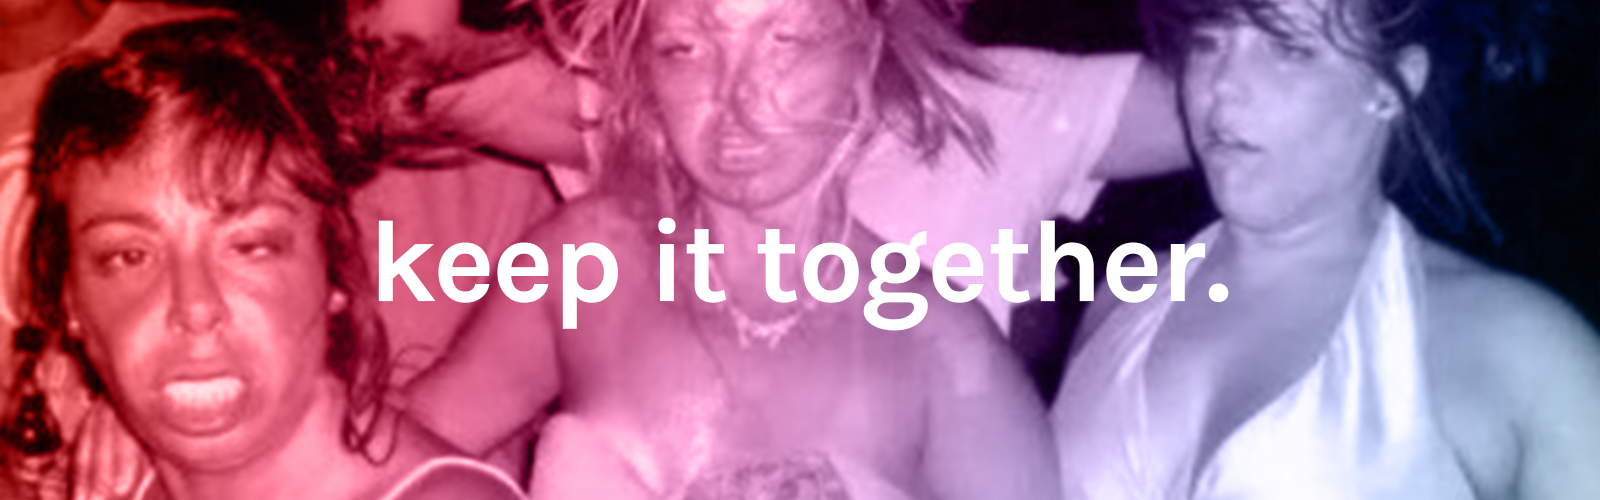
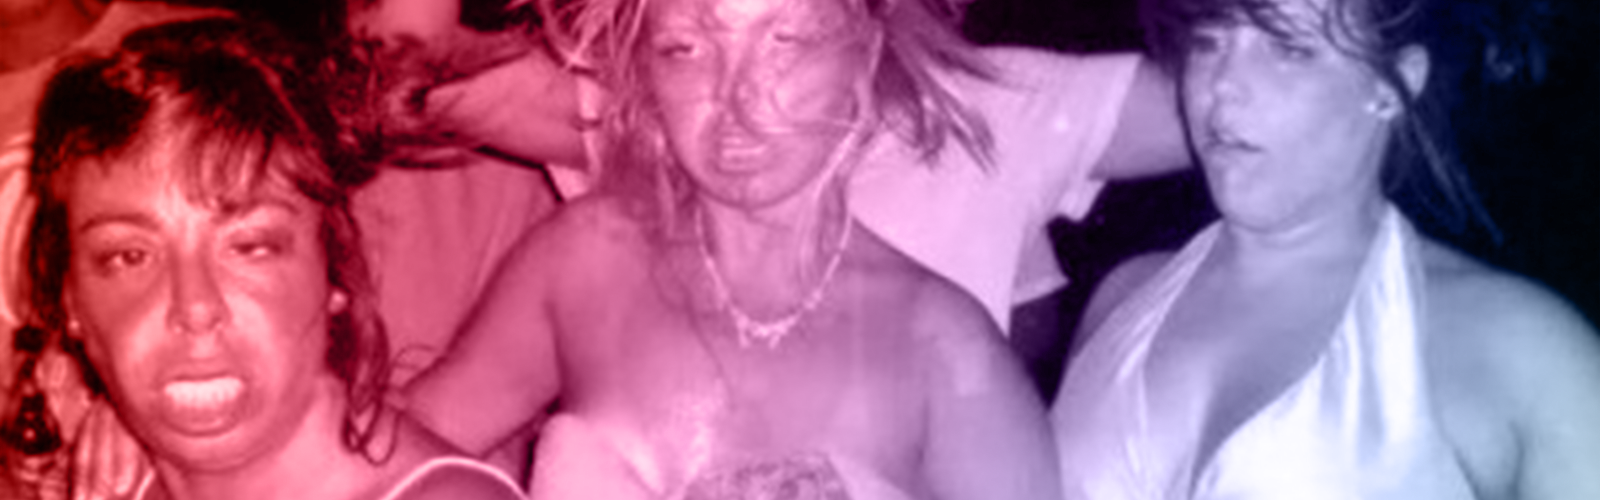
violet

Changed region(s): [[0.2188, 0.42, 0.7812, 0.66]]

diff --git a/client/src/pages/Home/index.js b/client/src/pages/Home/index.js
@@ -1,10 +1,12 @@
 import React from "react";
 import Hero from "../../components/Hero";
 import Row from "react-bootstrap/Row";
-// import Col from 'react-bootstrap/Col';
+import Col from 'react-bootstrap/Col';
 import Homecard from "../../components/HomeCard";
+// import HomeInfoCard from "../../components/HomeInfoCard";
 import Footer from "../../components/Footer";
 import "./style.css";
+import Card from "../../components/Card";
 
 class Home extends React.Component {
   render() {
@@ -12,8 +14,29 @@ class Home extends React.Component {
       <div>
         <Hero backgroundImage="images/heroImage.png" />
         <h1 className="aboutUsHeader">About Us</h1>
-        <p className="aboutUsCopy">Blah Blah Blah!</p>
-        <Row className="rowabout">
+        <p className="aboutUsCopy">Adulting is hard.<br/>There's no real guidebook on how to do it right and worst of all, thanks to social media, we all believe that everyone seems to have it all together except for ourselves.</p>
+        <Row className="rowInfoCards">
+        
+        <Col>
+        <img src="https://emojis.slackmojis.com/emojis/images/1563480763/5999/meow_party.gif?1563480763"></img>
+        <h1>about us</h1>
+        <p>Lorem Ipsum</p>
+          </Col>
+
+          <Col>
+        <img src="https://emojis.slackmojis.com/emojis/images/1563480763/5999/meow_party.gif?1563480763"></img>
+        <h1>about us</h1>
+        <p>Lorem Ipsum</p>
+          </Col>
+
+          <Col>
+        <img src="https://emojis.slackmojis.com/emojis/images/1563480763/5999/meow_party.gif?1563480763"></img>
+        <h1>about us</h1>
+        <p>Lorem Ipsum</p>
+          </Col>
+
+        </Row>
+        <Row className="rowAbout">
           <Homecard categories={this.props.categories} />
 
           {/* <Col>

diff --git a/client/src/components/HomeInfoCard/style.css b/client/src/components/HomeInfoCard/style.css
@@ -1,0 +1,45 @@
+.homeCard{
+    background-color:#ffffff;
+    border: .6em solid #fbd900;
+}
+
+.cardTitle{
+font-family:'Space Mono', monospace;
+text-transform: lowercase;
+letter-spacing: -.04em;
+font-size:1.6em;
+font-weight:700;
+line-height:1.05em;
+}
+
+.homeCardImg{
+    /* text-align: center; */
+}
+
+.homeCardCopy{
+    font-family: 'Karla', sans-serif;
+    font-size: .85em;
+    line-height: 1.2em;
+}
+
+.homeCardBody{
+    background-color:white;
+}
+
+.homeCardRow{
+    padding: 3em;
+}
+
+.homeCardButton {
+    background-color: #ffffff;
+    color: #0e184b;
+    border: 2px solid #2f949a;
+    text-transform: uppercase;
+    font-weight: 700;
+}
+
+.homeCardButton:hover, .homeCardButton:active {
+    background-color: #2f949a;
+    color: white;
+    border: 2px solid #2f949a;
+}

diff --git a/client/src/components/HomeInfoCard/index.js b/client/src/components/HomeInfoCard/index.js
@@ -1,0 +1,27 @@
+
+import React, { Component } from "react";
+import './style.css';
+// import Card from 'react-bootstrap/Card';
+// import Col from 'react-bootstrap/Col';
+// import Row from 'react-bootstrap/Row';
+
+class HomeInfoCard extends Component {
+ 
+
+render(){
+  
+  return (
+<div class="card" style="width: 18rem;">
+    <h5 class="card-title">Card title</h5>
+    <p class="card-text">Some quick example text to build on the card title and make up the bulk of the card's content.</p>
+</div>
+    )
+  }
+
+
+
+}
+
+
+
+export default HomeInfoCard;

diff --git a/client/src/pages/Home/style.css b/client/src/pages/Home/style.css
@@ -1,5 +1,7 @@
-.rowabout{
+.rowAbout{
     margin-left: 50px;
+    background-image: url("/images/crumplyBG.png");
+    margin:0;
 }
 
 .aboutUsHeader{
@@ -12,6 +14,8 @@
     color: #0e184b;
     background-color: #d4d600;
     text-transform: lowercase;
+    margin: 0;
+    padding-top: 1em;
 }
 
 .aboutUsCopy{
@@ -21,5 +25,11 @@
     font-style: italic;
     font-size: 1.8em;
     font-weight:400;
-    margin: .5em;
+    margin: 0;
+    padding: 0 25% 6% 25%;
+    background-color: #d4d600;
+}
+
+.rowInfoCards{
+    text-align: center;
 }

diff --git a/client/src/components/Footer/index.js b/client/src/components/Footer/index.js
@@ -7,6 +7,12 @@ function Footer(){
       return (
       <footer className="footerHome">
           <p className="footerCopy">Follow Us</p>
+          <i class="fab fa-facebook fa-3x"></i>
+          <i class="fab fa-twitter fa-3x"></i>
+          <i class="fab fa-github fa-3x"></i>
+          <i class="fab fa-pinterest fa-3x"></i>
+          <i class="fab fa-instagram fa-3x"></i>
+          <p>©2019 Keep It Together, Inc.</p>
       </footer>
       );
     }

diff --git a/client/public/index.html b/client/public/index.html
@@ -18,6 +18,7 @@
     <noscript>
         You need to enable JavaScript to run this app.
     </noscript>
-    <div id="root"></div>    
+    <div id="root"></div>   
+    <script src="https://kit.fontawesome.com/46cf16d05b.js" crossorigin="anonymous"></script> 
 </body>
 </html>

diff --git a/client/src/components/Hero/index.js b/client/src/components/Hero/index.js
@@ -5,6 +5,7 @@ function Hero(props) {
   return (
     <div className="hero text-center" style={{ backgroundImage: `url(${props.backgroundImage})` }}>
       {props.children}
+      <p className="heroCopy">keep it together</p>
     </div>
   );
 }

diff --git a/client/src/components/Hero/style.css b/client/src/components/Hero/style.css
@@ -31,3 +31,11 @@
   padding-top: 140px;
   margin-top: 0;
 }
+
+.heroCopy{
+  color: white;
+  font-family: "Karla", sans-serif;
+  font-size: 6em;
+  padding: 10%;
+  font-weight: 700;
+}

diff --git a/client/src/components/Footer/style.css b/client/src/components/Footer/style.css
@@ -10,3 +10,7 @@
 .footerCopy{
     font-size: 1.5em;
 }
+
+.fab{
+    margin: 0 1% 2%;
+}
